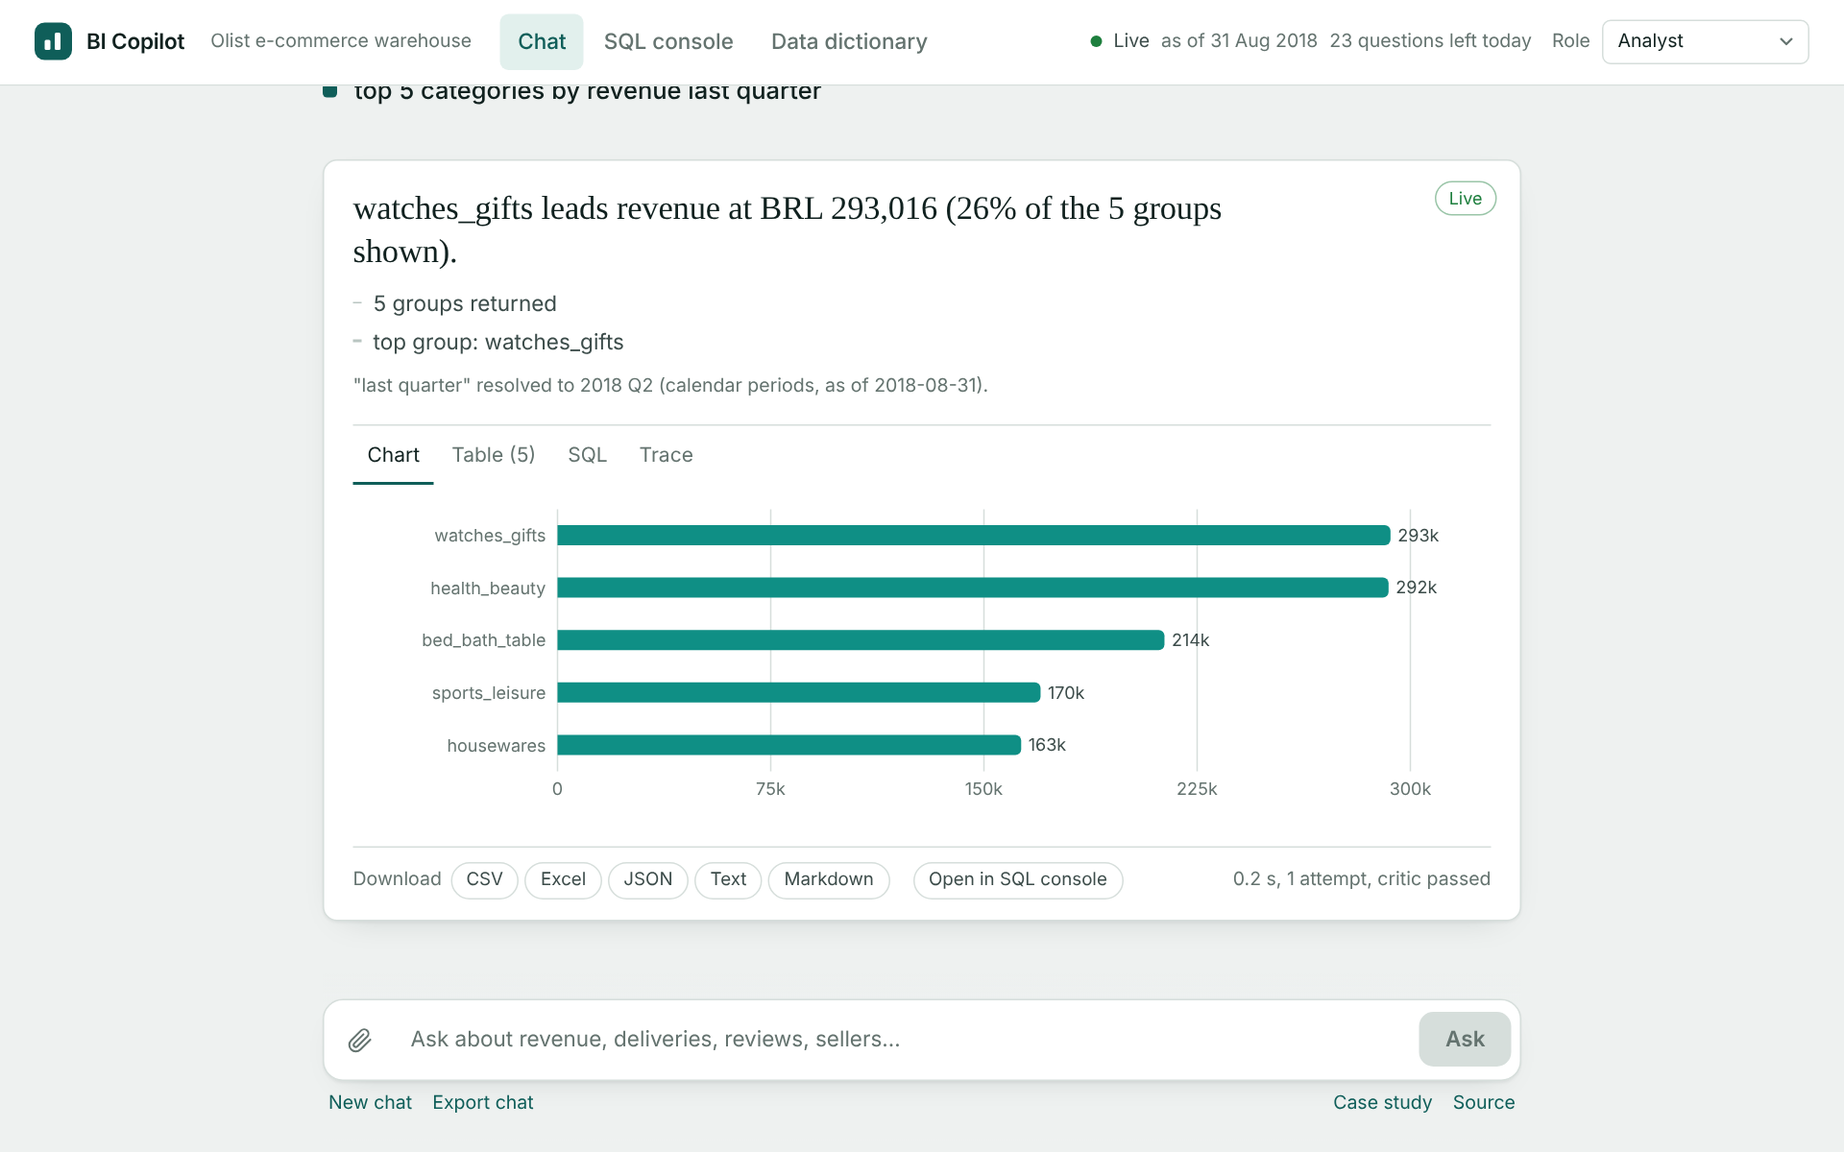
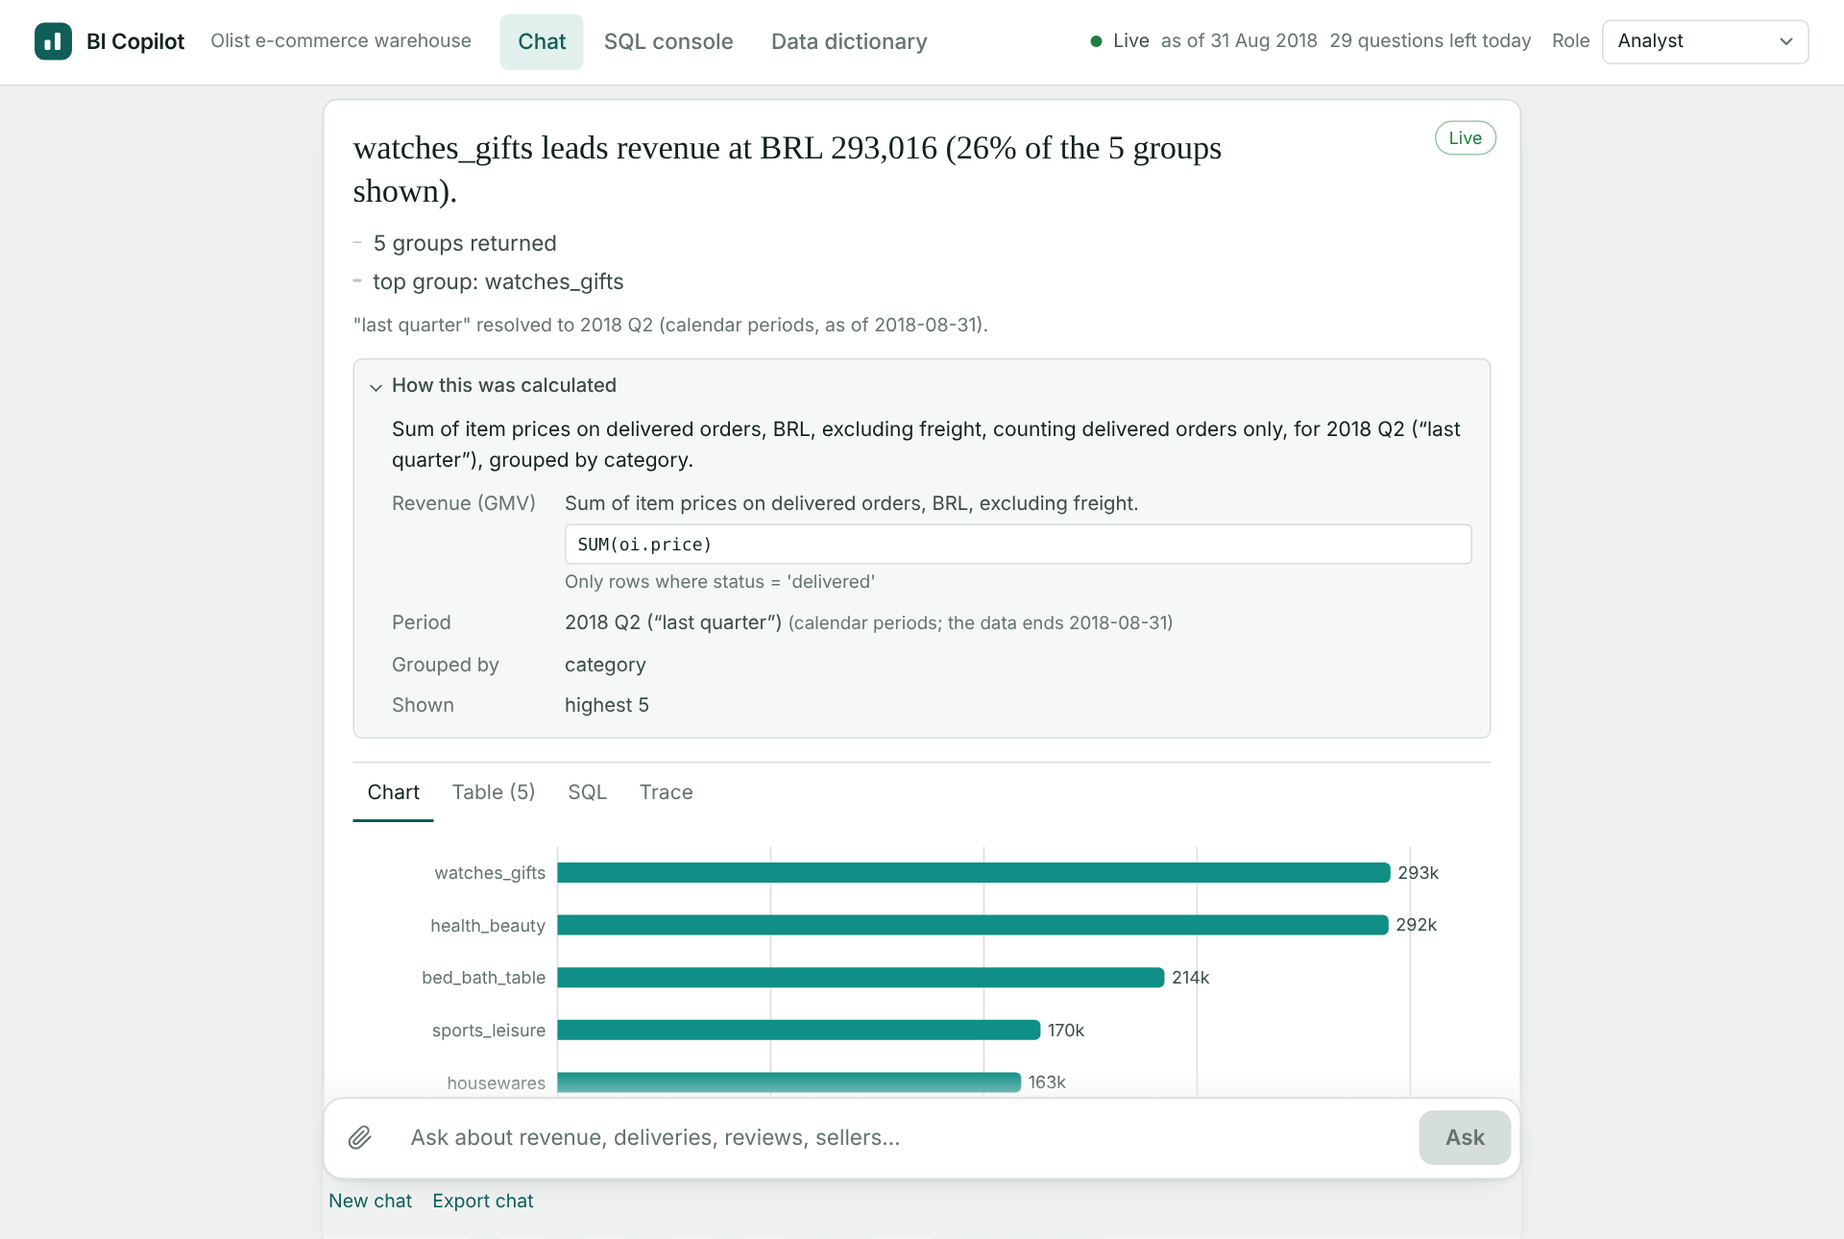
Docs: case study, README and drill brought up to date (interface, fast path with the live measurement, how-calculated, viewer access, bootstrap, deploy hook); fresh screenshots
Claude-Session: https://claude.ai/code/session_015es2U52W9yzNdGMexDe6wG

diff --git a/PROJECT_CASE_STUDY.md b/PROJECT_CASE_STUDY.md
@@ -13,11 +13,11 @@
 
 ## 1. Executive summary
 
-BI Copilot converts natural-language questions about a **real e-commerce warehouse** (Olist, 99k Brazilian orders, 2016-2018) into business-defined SQL, executes queries against a constrained set of warehouse tables, and returns an answer, chart specification, underlying rows, generated SQL, and a trace of agent activity.
+BI Copilot converts natural-language questions about a **real e-commerce warehouse** (Olist, 99,441 Brazilian orders, 2016-2018) into business-defined SQL, executes queries against a constrained set of warehouse tables, and returns an answer, a one-line account of how it was calculated, a chart, the underlying rows, the SQL, and (for analysts) a trace of agent activity. Around the chat sit the surfaces a BI team expects: a guarded SQL console, a profiled data dictionary with a join map, downloads (CSV, Excel, JSON, text, Markdown), pasted PDFs or screenshots as context, and an analyst/viewer role split with column masking.
 
-Its distinguishing design choice is the **governed semantic layer**: the meanings of revenue, gross margin, fiscal periods, and dimensions are defined in YAML rather than inferred afresh by a language model for every query. A deterministic SQL compiler provides a constrained starting point; an optional LLM path performs planning, tool use, SQL refinement, analysis, and critique. The service can also operate with a deterministic no-key substitute for development and automated testing.
+Its distinguishing design choice is the **governed semantic layer**: the meanings of revenue, late delivery, customers (golden records, not per-order ids), calendar periods and dimensions are defined in YAML rather than inferred afresh by a language model for every query. A deterministic SQL compiler provides a constrained starting point; the LLM path performs planning, tool use, SQL refinement, analysis and critique **only where the layer could not resolve the question on its own** (the "confident resolution" fast path, section 7). The service can also operate with a deterministic no-key substitute for development and automated testing.
 
-**Evidence boundary:** This is a working software prototype using generated data, not a documented production rollout for business users. A deployed URL and CI configuration do not themselves demonstrate real-user adoption, service availability, measured financial returns, or production-scale concurrency. The project's reported 100% SQL execution accuracy applies to its **deterministic evaluation path**, not to a separately verified LLM-backed run.
+**Evidence boundary:** This is a working software prototype on a public dataset, not a documented production rollout for business users. A deployed URL and CI configuration do not themselves demonstrate real-user adoption, service availability, measured financial returns, or production-scale concurrency. The project's reported 100% SQL execution accuracy applies to its **deterministic evaluation path**, not to a separately verified LLM-backed run.
 
 ## 2. Background and business problem
 
@@ -80,7 +80,8 @@ flowchart TD
     Router -->|data question| Planner[Planner subgraph: resolve -> plan -> retrieve]
     Router -->|greeting, meta, out-of-scope| Response[Response]
     Planner -->|ambiguous| Response
-    Planner -->|resolved| SQL[SQL subgraph: explore -> write -> guard -> execute]
+    Planner -->|resolved, model needed| SQL[SQL subgraph: explore -> write -> guard -> execute]
+    Planner -->|confident resolution| SQL
     SQL -->|unrecoverable| Response
     SQL -->|executed| Analyst[Analyst subgraph: interpret -> critic]
     Analyst -->|revise, bounded| SQL
@@ -108,7 +109,10 @@ The orchestration is in [``src/bicopilot/agents/graph.py``](src/bicopilot/agents
 | Analyst / critic | Generates summary/chart and checks answer against plan and result | [``agents/analyst.py``](src/bicopilot/agents/analyst.py) |
 | API / service | Handles requests, answer caching, fallback, trace recording and rate limits | [``api.py``](src/bicopilot/api.py), [``service.py``](src/bicopilot/service.py) |
 | A2A and reporter | Exposes task-shaped JSON-RPC messages; compiles a briefing using the API | [``a2a.py``](src/bicopilot/a2a.py), [``reporting_agent.py``](agents/reporting_agent.py) |
-| User interface | Interactive conversation, clarifications, charts, data, SQL and trace | [``web/src/App.tsx``](web/src/App.tsx), [``ResultView.tsx``](web/src/components/ResultView.tsx) |
+| Data dictionary | Business descriptions plus live column profiles; served to the UI, indexed for retrieval, answers schema questions | [``dictionary.py``](src/bicopilot/dictionary.py), [``dictionary.yaml``](semantic/dictionary.yaml) |
+| Access control | Analyst/viewer roles; masked columns rewritten on the SQL AST, post-filtered in rows, withheld from prompts; viewers receive no trace | [``access.py``](src/bicopilot/access.py) |
+| Console, exports, attachments | Guarded ad-hoc SQL, result downloads, PDF/image/CSV text extraction into the planner's context | [``api.py``](src/bicopilot/api.py), [``export.py``](src/bicopilot/export.py), [``attachments.py``](src/bicopilot/attachments.py) |
+| User interface | Chat (answer, method, chart, rows, SQL, trace), SQL console with schema browser, dictionary with join map; light and dark; phone to desktop | [``web/src/App.tsx``](web/src/App.tsx), [``ResultView.tsx``](web/src/components/ResultView.tsx), [``SchemaMap.tsx``](web/src/components/SchemaMap.tsx) |
 
 ### Deployment paths
 
@@ -230,6 +234,16 @@ With the as-of date of **2018-08-31** (the last complete month in the data), “
 
 **Trade-off:** differing query planners, numeric types and SQL support still require separate backend tests.
 
+### G. Confident resolution: the model only where it adds value
+
+The full agent path costs six or seven sequential model calls (router, plan correction, LLM rerank, up to four ReAct tool rounds, SQL write, analyst, critic). Measured on the live service it took 30-40 s per question, which no business user tolerates. The fix is not a faster model but fewer calls: when the semantic layer names the metric, nothing is ambiguous, no word of the question is left unexplained and no attachment or clarification reply is in play, the plan and the SQL are taken from the compiler (correct by construction), the router and the reranker run without the model, and the model is asked only to interpret the rows and to criticise that interpretation. A residual word ("excluding", "place"), an ambiguous phrase or a pasted file brings the planner and the tool-using SQL agent back. The trace records which path ran and why.
+
+One live measurement (31 Oct 2026, "late delivery rate by region 2018", Render free tier, Neon Postgres, gpt-5.6-sol): 14.3 s total, of which router 1.8 s, retrieval with LLM rerank 5.5 s, Neon query 1.2 s, analyst 3.3 s, critic 2.4 s. The router and rerank model calls were removed from the fast path afterwards, so the expected figure is about 9 s; that expectation has not yet been re-measured.
+
+### H. Every answer says how it was calculated
+
+A number without its method is not auditable by the people who have to act on it. The analyst writes a one-sentence method from the SQL; the semantic layer adds the metric definition, formula, mandatory filters, the period the question resolved to, the grouping and the question's own filters. The UI shows this as "How this was calculated" under the statement; it is produced deterministically, so it is present even when the model is unavailable.
+
 ## 8. Failure handling and operational considerations
 
 | Failure / condition | Code behaviour | Remaining risk |
@@ -242,6 +256,10 @@ With the as-of date of **2018-08-31** (the last complete month in the data), “
 | Public request abuse | Visitor and global rate limits; admin protection for run-history endpoints when token configured | Visitor limits are process-local; deployment topology matters |
 | Render free-tier wake-up | Frontend polls health endpoint and can display precomputed examples | Cold-start latency and availability are not measured here |
 | A2A client requests another capability | Only the implemented JSON-RPC message method is supported | Not full A2A protocol coverage |
+| Database was built for an older schema | The warehouse is versioned; a mismatch drops and rebuilds the warehouse tables (never the logs) | A version bump reloads 450k rows; fine for this size |
+| Slow first start on a remote warehouse | The API binds its port at once and builds the copilot in the background (`/healthz` answers 503 "starting"); PostgreSQL loads use COPY; column profiles and chunk embeddings are cached | A platform may still time out a very slow first load |
+| Provider rejects function tools with reasoning_effort | The tool loop has its own reasoning-free client; an exploration failure is logged into the trace and skipped, not fatal | Other provider-specific rejections surface as fallbacks |
+| Viewer asks a question | Masked columns become a literal on the SQL AST, rows are post-filtered, prompts omit them; the response carries no trace, tool observations or retrieval ranks | Column masking is not row-level security |
 
 Key paths: [``service.py``](src/bicopilot/service.py), [``limits.py``](src/bicopilot/limits.py), [``sqlguard.py``](src/bicopilot/sqlguard.py), [``api.py``](src/bicopilot/api.py).
 
@@ -252,7 +270,7 @@ Key paths: [``service.py``](src/bicopilot/service.py), [``limits.py``](src/bicop
 - [``eval/questions.jsonl``](eval/questions.jsonl) contains **60** evaluation cases: **50 answered cases with reference SQL**, **5 clarification cases**, **3 refusals**, **1 greeting**, and **1 metadata/introductory answer**.
 - [``eval/run.py``](eval/run.py) executes the graph for each question and checks expected status. For cases with gold SQL, it compares generated SQL **result sets** with the reference query (including ordering where applicable).
 - CI runs a deterministic path with a passing threshold, and repeats tests with SQLite/in-memory vectors and PostgreSQL/pgvector/Redis configurations.
-- API, graph, semantic parsing, SQL guard and A2A surface have test coverage; these tests mainly run with the deterministic fake provider.
+- API, graph, semantic parsing, SQL guard, A2A surface, access control, SQL console, exports, warehouse bootstrap, fast path and method detail have test coverage (67 tests); these tests mainly run with the deterministic fake provider.
 
 ### What can and cannot be claimed
 
@@ -266,6 +284,7 @@ Key paths: [``service.py``](src/bicopilot/service.py), [``limits.py``](src/bicop
 | End-user productivity increased by a specific percentage | **Not measured** |
 | Users adopted the system in a real company | **Not established** |
 | The service meets a production latency or uptime SLA | **Not measured** |
+| A fast-path question answers in about 9 s on the live service | **Partly**: 14.3 s measured once before the last two model calls were removed; not re-measured |
 
 **How to reproduce local evidence**
 
@@ -306,7 +325,7 @@ No measured user adoption, hours saved, financial return, customer satisfaction 
 | P0 | Run the gold-SQL suite with an actual configured LLM | Separate real-model accuracy from deterministic compiler accuracy |
 | P0 | Add negative business-rule and permission tests | Verify that allowed syntax does not accidentally bypass mandatory metric rules or user access limits |
 | P1 | Configure a least-privileged read-only database identity and per-user authorization | Application-level SQL parsing alone is insufficient for enterprise data governance |
-| P1 | Capture latency, cost, error, fallback and retrieval metrics across representative traffic | Validate performance rather than claiming scalability from architecture |
+| P1 | Capture latency, cost, error, fallback and retrieval metrics across representative traffic | One live timing exists (14.3 s, section 7); a distribution over real questions does not |
 | P1 | Test interrupted sessions, concurrency and reload/redeployment behaviour | Assess operational readiness beyond local tests |
 | P2 | Expand complex SQL coverage (multi-fact joins, windows, share-of-total) | Address cases the deterministic compiler does not support |
 | P2 | Extend A2A compliance and exercise independent agent clients | Validate interoperability beyond Agent Card + message/send |
@@ -391,3 +410,7 @@ the existing Neon project used by Ask WJ, and configure `DATABASE_URL` privately
 The repository does not confirm that Neon is connected. The dashboard's successful
 GitHub tests do not prove the latest Render instance has deployed the route; a 404
 at `/admin` should be investigated against the running Render commit.
+
+## 14. Interface for external users
+
+The interface was redesigned once the service was meant for people outside the project. Instrument Sans for the interface, Instrument Serif where the copilot speaks (the answer statement), JetBrains Mono for SQL and figures; one teal for everything interactive; a mineral-grey canvas and white cards; a designed dark mode; a five-colour categorical palette validated for colour-vision deficiency and contrast in both schemes. The transcript reads as question lines and answer cards rather than chat bubbles, because the cards are what people share. Each card carries the statement, insights, "How this was calculated", Chart / Table / SQL / Trace, downloads, "Open in SQL console" and a provenance line (seconds, attempts, critic verdict). The empty state states the facts a reader needs before typing: currency, the as-of date relative periods count back from, that revenue covers delivered orders only, and how many governed metrics exist. The data dictionary opens on a star-schema join map drawn from the dictionary's relationships; the SQL console's schema browser is an aligned column list with key, join and masking marks. Verified at 390 px and 1280 px. Code: [``web/src``](web/src).

diff --git a/README.md b/README.md
@@ -13,7 +13,9 @@ PDFs and screenshots as context, and role-based masking.
    -> critic   : pass
 ```
 
-![Chat: answer, chart, export, open in console](docs/chat.png)
+![Start screen: what the data is, starter questions](docs/home.png)
+
+![An answer: statement, how it was calculated, chart, downloads](docs/chat.png)
 
 **The data is real.** [Olist's Brazilian E-Commerce dataset](https://www.kaggle.com/datasets/olistbr/brazilian-ecommerce)
 (Kaggle, CC BY-NC-SA 4.0): 99,441 orders, 112,650 item lines, 96,096 customers, 3,095 sellers, 32,951 products,
@@ -54,13 +56,15 @@ path, not measured LLM accuracy, and nothing here is a claim of business impact.
 | Attachments | `POST /attachments` | PDF text (pypdf), CSV/text, images via the chat model's vision; extracted text rides with the question into the planner and SQL agent |
 | Answer cache + limits | `cache.py`, `limits.py` | Redis or in-process cache keyed on question + as-of + role + semantic-layer hash; per-visitor and site-wide daily limits; Bearer-protected logs |
 | A2A | `a2a.py`, `agents/reporting_agent.py`, `weekly-report.yml` | Agent Card + JSON-RPC `message/send`; a second agent compiles a weekly briefing and commits it |
-| UI | `web/` | React + Vite + Recharts: Chat (answer, chart, table, SQL, trace, export, open-in-console, paste/drop attachments), SQL console (schema browser, history, explain, export), Data dictionary (search, profiles, masked flags), role switch, new chat |
+| How it was calculated | `semantic.method_detail`, analyst `method` | Every answer carries the analyst's one-line method plus the layer's definition, formula, mandatory filters, resolved period, grouping and filters |
+| Fast path | `agents/planner.py`, `agents/sql_agent.py` | A question the layer fully explains skips the model for routing, planning, exploration, SQL and rerank; the model interprets and criticises only (about 9 s instead of 30-40 s) |
+| UI | `web/` | React + Vite + Recharts, designed for external users: Chat (statement, method, chart, table, SQL, trace, downloads, open-in-console, paste/drop attachments), SQL console (aligned schema browser, history, explain, downloads), Data dictionary (join map, profiles, data-quality notes, search), analyst/viewer switch, light and dark, phone to desktop |
 | Eval | `eval/` | 60 questions with hand-written gold SQL over the real data; execution accuracy by tag -> `eval/report.md` |
 | Tests | `tests/` | 67 tests: resolver, compiler, guard, tools, rerankers, Milvus store, cache, limits, fallback, console, masking, exports, attachments, admin analytics, graph, API, A2A. CI runs SQLite + Milvus Lite and Postgres + pgvector + Redis |
 
 ![SQL console with schema browser](docs/console.png)
 
-![Data dictionary](docs/dictionary.png)
+![Data dictionary: the join map](docs/dictionary.png)
 
 ## Run it
 
@@ -166,6 +170,10 @@ so later cold starts take seconds. A warehouse built for an older schema is dete
 the blueprint: 6 questions/minute and 25/day per visitor (hashed IP), 300 model-backed answers/day site-wide,
 `/runs` behind `ADMIN_TOKEN`.
 
+**Deploying on push**: `.github/workflows/deploy.yml` calls the service's private Deploy Hook on every push to `main`
+once the `RENDER_DEPLOY_HOOK` repository secret is set (Render → service → Settings → Deploy Hook). Without the
+secret it logs a warning and does nothing.
+
 **Static copy in the portfolio**: the same UI build (`cd web && VITE_BASE=/portfolio/bi-copilot/ VITE_API_URL=https://bicopilot.onrender.com npm run build`)
 is copied into the portfolio site at `wenjun78.github.io/portfolio/bi-copilot/`. It talks to the Render API; without a
 reachable API it serves the pre-computed bundle (chat only), while the SQL console, dictionary and attachments need
@@ -176,13 +184,15 @@ the live API.
 ```
 semantic/        metrics.yaml (the contract), glossary.md (RAG chunks), dictionary.yaml (column meanings)
 data/            schema.sql, build_olist.py, raw/olist.zip (source, CC BY-NC-SA 4.0), csv/ (built)
-src/bicopilot/   config, db, semantic, dictionary, retrieval, rerank, tools, cache, limits, access, export,
-                 attachments, sqlguard, llm, prompts, service, api, a2a, analytics
+src/bicopilot/   config, db (versioned warehouse, COPY loads), semantic (resolver, compiler, method detail),
+                 dictionary, retrieval, rerank, tools, cache, limits, access, export, attachments, sqlguard, llm,
+                 prompts, service, api, a2a, analytics
 src/bicopilot/agents/  state, planner, sql_agent, analyst, graph (supervisor)
 agents/          reporting_agent.py (second agent, talks A2A)
 eval/            questions.jsonl, run.py, export_demo.py, report.md
 tests/           67 tests
-web/             React UI (Vite). web/dist is served by the API at /
+web/             React UI (Vite): App, ResultView, MethodPanel, SqlConsole, DictionaryView, SchemaMap, ExportMenu.
+                 web/dist is served by the API at /
 admin/           Authenticated analytics dashboard UI (HTML, CSS, JavaScript)
 ```
 

diff --git a/DRILL.md b/DRILL.md
@@ -95,3 +95,20 @@ is a policy; three is a control. (`access.py`)
 Three things *not* to say: that the compiler "uses AI" (it does not; that is the point), that the eval
 proves the LLM path is accurate (it proves the floor), and that A2A here is a full protocol implementation
 (it is the card + `message/send` shape; no streaming, no push notifications).
+
+**13. It took 35 seconds to answer. What did you do about it?**
+Counted the model calls: six or seven in sequence on the full agent path. Then asked which of them add
+information for a question the semantic layer already understands: none before the analysis. So when the
+resolver names the metric, nothing is ambiguous and no word of the question is unexplained, the plan and
+SQL come from the compiler, the router and reranker run without the model, and the model only interprets
+the rows and criticises that interpretation. Measured 14.3 s on the live service with two of those cuts
+still to make; about 9 s expected now. The trace shows which path ran, so a slow answer is explainable:
+it had a word the layer could not place, or a pasted file. (`agents/planner.py`, `agents/sql_agent.py`)
+
+**14. A business user asks "where does 6.8 % come from?" What do they see?**
+"How this was calculated" under the statement: the analyst's one-sentence method written from the SQL,
+then the semantic layer's own account: the metric's definition and formula, the mandatory filters
+(delivered orders only, delivery flag recorded), the period the question resolved to and the as-of date,
+the grouping and the question's filters. It is deterministic, so it is there even when the model is down.
+Viewers get that and the SQL; they do not get the agents' trace or retrieval ranks. (`semantic.method_detail`,
+`web/src/components/MethodPanel.tsx`)
